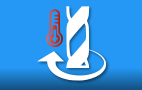
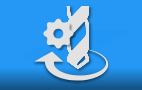
Update graphics

Changed region(s): [[0.2254, 0.0667, 0.7887, 0.9111]]

diff --git a/src/asmcnc/apps/maintenance_app/widget_maintenance_spindle_settings.py b/src/asmcnc/apps/maintenance_app/widget_maintenance_spindle_settings.py
@@ -226,14 +226,15 @@ Builder.load_string("""
                     pos: self.pos
 
             BoxLayout:
+                padding: dp(3)
                 size_hint_x: 0.3
 
-                # Image:
-                #     source: ''
-                #     center_x: self.parent.center_x
-                #     y: self.parent.y
-                #     size: self.parent.width, self.parent.height
-                #     allow_stretch: True
+                Image:
+                    source: "./asmcnc/apps/maintenance_app/img/uptime_hourglass.png"
+                    center_x: self.parent.center_x
+                    y: self.parent.y
+                    size: self.parent.width, self.parent.height
+                    allow_stretch: True
 
             Label:
                 id: uptime_label
@@ -244,9 +245,21 @@ Builder.load_string("""
                 valign: "middle"
                 text_size: self.size
 
-            Button:
+            BoxLayout:
                 size_hint_x: 0.5
-                on_press: root.get_uptime()
+                padding: [dp(40), dp(0)]
+
+                Button:
+                    on_press: root.get_uptime()
+                    background_normal: ''
+                    background_down: ''
+
+                    Image:
+                        source: "./asmcnc/apps/maintenance_app/img/uptime_button.png"
+                        center_x: self.parent.center_x
+                        y: self.parent.y
+                        size: self.parent.width, self.parent.height
+                        allow_stretch: False
 
 
 
